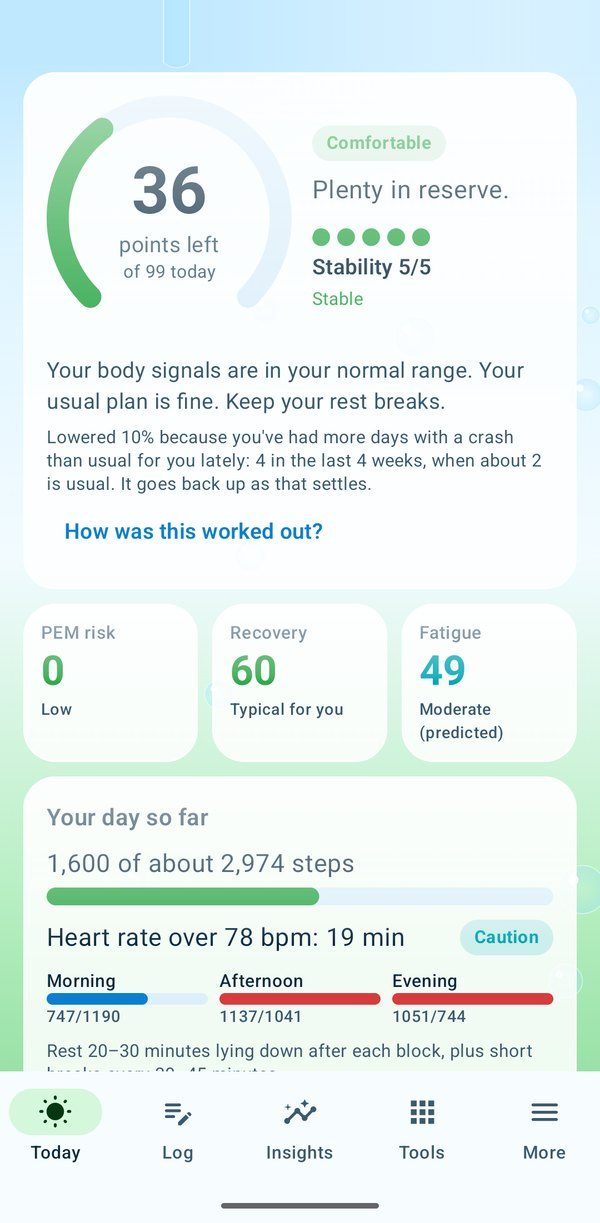
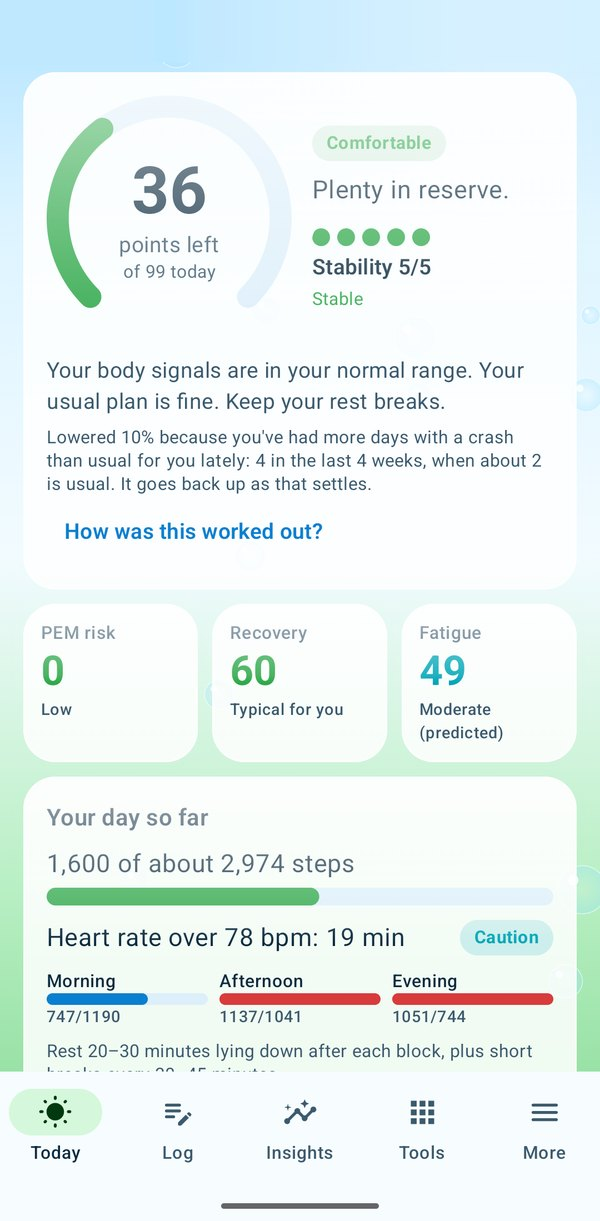
Add the Y2K sparkle and Frutiger Aero screenshots

diff --git a/themes.html b/themes.html
@@ -41,7 +41,7 @@
   <link rel="preconnect" href="https://fonts.googleapis.com">
   <link rel="preconnect" href="https://fonts.gstatic.com" crossorigin>
   <link href="https://fonts.googleapis.com/css2?family=Atkinson+Hyperlegible:ital,wght@0,400;0,700;1,400&family=Silkscreen&family=Sniglet:wght@800&display=swap" rel="stylesheet">
-  <link rel="stylesheet" href="styles.css?v=a73459ff">
+  <link rel="stylesheet" href="styles.css?v=cc64a8cb">
   <link rel="icon" href="favicon.svg" type="image/svg+xml">
   <link rel="apple-touch-icon" href="apple-touch-icon.png">
   <script type="application/ld+json">
@@ -193,7 +193,6 @@
     <p class="eyebrow">Themes</p>
     <h1>Calm on bad days, sparkly on good ones</h1>
     <p class="lede">Light sensitivity and brain fog both change what you can look at. So Gentle has a very dim mode for the worst days, plain light and dark themes for most days, and a few looks that are only there because they're fun.</p>
-    <p>This website has the same themes, and the same low-stimulus switch. You'll find both under the Theme button at the top of the page.</p>
   </div>
 </header>
 
@@ -201,27 +200,27 @@
   <div class="container">
     <div class="theme-gallery">
       <figure>
-        <div class="phone" data-ink="dark"><div class="phone-screen"><img src="img/app/today-light.jpg?v=35d0aca0" width="600" height="1223" loading="lazy" alt="Gentle's Today screen in the Light theme: cream background, dark green text"><div class="phone-status" aria-hidden="true"><span>2:50</span><span class="phone-icons"><svg viewBox="0 0 12 12"><path d="M12 0V12H0Z"/></svg><svg viewBox="0 0 16 12"><path d="M8 11.6 0.4 3.7a10.8 10.8 0 0 1 15.2 0Z"/></svg><svg viewBox="0 0 8 13"><rect x="2.5" width="3" height="2" rx=".6"/><rect y="1.4" width="8" height="11.6" rx="1.7"/></svg></span></div><span class="phone-camera" aria-hidden="true"></span></div></div>
+        <div class="phone" data-ink="dark"><div class="phone-screen"><img src="img/app/today-light.jpg?v=cd638573" width="600" height="1221" loading="lazy" alt="Gentle's Today screen in the Light theme: cream background, dark green text"><div class="phone-status" aria-hidden="true"><span>2:50</span><span class="phone-icons"><svg viewBox="0 0 12 12"><path d="M12 0V12H0Z"/></svg><svg viewBox="0 0 16 12"><path d="M8 11.6 0.4 3.7a10.8 10.8 0 0 1 15.2 0Z"/></svg><svg viewBox="0 0 8 13"><rect x="2.5" width="3" height="2" rx=".6"/><rect y="1.4" width="8" height="11.6" rx="1.7"/></svg></span></div><span class="phone-camera" aria-hidden="true"></span></div></div>
         <figcaption>Light<span>Cream and dark green, and easy to read.</span></figcaption>
       </figure>
       <figure>
-        <div class="phone" data-ink="light"><div class="phone-screen"><img src="img/app/today-dark.jpg?v=a417bcd6" width="600" height="1223" loading="lazy" alt="Gentle's Today screen in the Dark theme: near-black background, soft green text"><div class="phone-status" aria-hidden="true"><span>2:50</span><span class="phone-icons"><svg viewBox="0 0 12 12"><path d="M12 0V12H0Z"/></svg><svg viewBox="0 0 16 12"><path d="M8 11.6 0.4 3.7a10.8 10.8 0 0 1 15.2 0Z"/></svg><svg viewBox="0 0 8 13"><rect x="2.5" width="3" height="2" rx=".6"/><rect y="1.4" width="8" height="11.6" rx="1.7"/></svg></span></div><span class="phone-camera" aria-hidden="true"></span></div></div>
+        <div class="phone" data-ink="light"><div class="phone-screen"><img src="img/app/today-dark.jpg?v=ce06c25e" width="600" height="1221" loading="lazy" alt="Gentle's Today screen in the Dark theme: near-black background, soft green text"><div class="phone-status" aria-hidden="true"><span>2:50</span><span class="phone-icons"><svg viewBox="0 0 12 12"><path d="M12 0V12H0Z"/></svg><svg viewBox="0 0 16 12"><path d="M8 11.6 0.4 3.7a10.8 10.8 0 0 1 15.2 0Z"/></svg><svg viewBox="0 0 8 13"><rect x="2.5" width="3" height="2" rx=".6"/><rect y="1.4" width="8" height="11.6" rx="1.7"/></svg></span></div><span class="phone-camera" aria-hidden="true"></span></div></div>
         <figcaption>Dark<span>For evenings, or if light hurts.</span></figcaption>
       </figure>
       <figure>
-        <div class="phone" data-ink="dark"><div class="phone-screen"><img src="img/app/today-pink.jpg?v=a003fc54" width="600" height="1223" loading="lazy" alt="Gentle's Today screen in the Pink theme: pink background, a handwritten greeting and gradient buttons"><div class="phone-status" aria-hidden="true"><span>2:50</span><span class="phone-icons"><svg viewBox="0 0 12 12"><path d="M12 0V12H0Z"/></svg><svg viewBox="0 0 16 12"><path d="M8 11.6 0.4 3.7a10.8 10.8 0 0 1 15.2 0Z"/></svg><svg viewBox="0 0 8 13"><rect x="2.5" width="3" height="2" rx=".6"/><rect y="1.4" width="8" height="11.6" rx="1.7"/></svg></span></div><span class="phone-camera" aria-hidden="true"></span></div></div>
+        <div class="phone" data-ink="dark"><div class="phone-screen"><img src="img/app/today-pink.jpg?v=bd4b0910" width="600" height="1221" loading="lazy" alt="Gentle's Today screen in the Pink theme: pink background, a handwritten greeting and gradient buttons"><div class="phone-status" aria-hidden="true"><span>2:50</span><span class="phone-icons"><svg viewBox="0 0 12 12"><path d="M12 0V12H0Z"/></svg><svg viewBox="0 0 16 12"><path d="M8 11.6 0.4 3.7a10.8 10.8 0 0 1 15.2 0Z"/></svg><svg viewBox="0 0 8 13"><rect x="2.5" width="3" height="2" rx=".6"/><rect y="1.4" width="8" height="11.6" rx="1.7"/></svg></span></div><span class="phone-camera" aria-hidden="true"></span></div></div>
         <figcaption>Pink<span>Soft pinks and a handwritten greeting.</span></figcaption>
       </figure>
       <figure>
-        <div class="phone" data-ink="dark"><div class="phone-screen"><img src="img/app/today-bubbles.jpg?v=16cfeb57" width="600" height="1223" loading="lazy" alt="Gentle's Today screen in the Bubbles theme: pastel bubbles drifting behind the cards"><div class="phone-status" aria-hidden="true"><span>2:50</span><span class="phone-icons"><svg viewBox="0 0 12 12"><path d="M12 0V12H0Z"/></svg><svg viewBox="0 0 16 12"><path d="M8 11.6 0.4 3.7a10.8 10.8 0 0 1 15.2 0Z"/></svg><svg viewBox="0 0 8 13"><rect x="2.5" width="3" height="2" rx=".6"/><rect y="1.4" width="8" height="11.6" rx="1.7"/></svg></span></div><span class="phone-camera" aria-hidden="true"></span></div></div>
+        <div class="phone" data-ink="dark"><div class="phone-screen"><img src="img/app/today-bubbles.jpg?v=465e9296" width="600" height="1221" loading="lazy" alt="Gentle's Today screen in the Bubbles theme: pastel bubbles drifting behind the cards"><div class="phone-status" aria-hidden="true"><span>2:50</span><span class="phone-icons"><svg viewBox="0 0 12 12"><path d="M12 0V12H0Z"/></svg><svg viewBox="0 0 16 12"><path d="M8 11.6 0.4 3.7a10.8 10.8 0 0 1 15.2 0Z"/></svg><svg viewBox="0 0 8 13"><rect x="2.5" width="3" height="2" rx=".6"/><rect y="1.4" width="8" height="11.6" rx="1.7"/></svg></span></div><span class="phone-camera" aria-hidden="true"></span></div></div>
         <figcaption>Bubbles<span>Pastel bubbles that drift slowly.</span></figcaption>
       </figure>
       <figure>
-        <div class="shot-slot" data-slot="today-y2k">Y2K sparkle screenshot to come</div>
-        <figcaption>Y2K sparkle<span>Hot pink, pixel fonts, chunky outlines and glitter, in three versions.</span></figcaption>
+        <div class="phone" data-ink="dark"><div class="phone-screen"><img src="img/app/today-y2k.jpg?v=8d5a18b8" width="600" height="1221" loading="lazy" alt="Gentle's Today screen in Y2K sparkle: pastel rainbow background, cards drawn like little windows with pixel-font titles, glitter and stickers"><div class="phone-status" aria-hidden="true"><span>2:50</span><span class="phone-icons"><svg viewBox="0 0 12 12"><path d="M12 0V12H0Z"/></svg><svg viewBox="0 0 16 12"><path d="M8 11.6 0.4 3.7a10.8 10.8 0 0 1 15.2 0Z"/></svg><svg viewBox="0 0 8 13"><rect x="2.5" width="3" height="2" rx=".6"/><rect y="1.4" width="8" height="11.6" rx="1.7"/></svg></span></div><span class="phone-camera" aria-hidden="true"></span></div></div>
+        <figcaption>Y2K sparkle<span>Pastel rainbow, cards like little windows, glitter and stickers, in three versions.</span></figcaption>
       </figure>
       <figure>
-        <div class="shot-slot" data-slot="today-aero">Frutiger Aero screenshot to come</div>
+        <div class="phone" data-ink="dark"><div class="phone-screen"><img src="img/app/today-aero.jpg?v=5ef8c370" width="600" height="1221" loading="lazy" alt="Gentle's Today screen in Frutiger Aero: sky-blue background with clouds and bubbles, glassy cards and glossy buttons"><div class="phone-status" aria-hidden="true"><span>2:50</span><span class="phone-icons"><svg viewBox="0 0 12 12"><path d="M12 0V12H0Z"/></svg><svg viewBox="0 0 16 12"><path d="M8 11.6 0.4 3.7a10.8 10.8 0 0 1 15.2 0Z"/></svg><svg viewBox="0 0 8 13"><rect x="2.5" width="3" height="2" rx=".6"/><rect y="1.4" width="8" height="11.6" rx="1.7"/></svg></span></div><span class="phone-camera" aria-hidden="true"></span></div></div>
         <figcaption>Frutiger Aero<span>Sky blue, glossy buttons and glass panels, in three versions.</span></figcaption>
       </figure>
     </div>
@@ -307,6 +306,6 @@
   </div>
 </footer>
 
-<script src="site.js?v=a73459ff" defer></script>
+<script src="site.js?v=cc64a8cb" defer></script>
 </body>
 </html>

diff --git a/index.html b/index.html
@@ -41,7 +41,7 @@
   <link rel="preconnect" href="https://fonts.googleapis.com">
   <link rel="preconnect" href="https://fonts.gstatic.com" crossorigin>
   <link href="https://fonts.googleapis.com/css2?family=Atkinson+Hyperlegible:ital,wght@0,400;0,700;1,400&family=Silkscreen&family=Sniglet:wght@800&display=swap" rel="stylesheet">
-  <link rel="stylesheet" href="styles.css?v=a73459ff">
+  <link rel="stylesheet" href="styles.css?v=cc64a8cb">
   <link rel="icon" href="favicon.svg" type="image/svg+xml">
   <link rel="apple-touch-icon" href="apple-touch-icon.png">
   <script type="application/ld+json">
@@ -251,8 +251,8 @@
       <p class="hero-note">Free, with no subscription. Needs Android 8.0 or later. Works with Pixel Watch, Fitbit, Samsung, Garmin and others through Health Connect, or with no watch at all.</p>
     </div>
     <figure>
-      <div class="phone" data-ink="dark"><div class="phone-screen"><img data-shot="today" src="img/app/today-light.jpg?v=0f9af9ab" data-v="0f9af9ab" width="600" height="1223" alt="Gentle's Today screen: 36 points left of 99 today, stability 5 out of 5, and the day so far in steps and heart rate"><div class="phone-status" aria-hidden="true"><span>2:50</span><span class="phone-icons"><svg viewBox="0 0 12 12"><path d="M12 0V12H0Z"/></svg><svg viewBox="0 0 16 12"><path d="M8 11.6 0.4 3.7a10.8 10.8 0 0 1 15.2 0Z"/></svg><svg viewBox="0 0 8 13"><rect x="2.5" width="3" height="2" rx=".6"/><rect y="1.4" width="8" height="11.6" rx="1.7"/></svg></span></div><span class="phone-camera" aria-hidden="true"></span></div></div>
-      <figcaption class="phone-caption" data-shot-caption>Gentle's Today screen in its Light theme, with sample data.</figcaption>
+      <div class="phone" data-ink="dark"><div class="phone-screen"><img data-shot="today" src="img/app/today-aero.jpg?v=d798009a" data-v="d798009a" width="600" height="1221" alt="Gentle's Today screen: 36 points left of 99 today, stability 5 out of 5, and the day so far in steps and heart rate"><div class="phone-status" aria-hidden="true"><span>2:50</span><span class="phone-icons"><svg viewBox="0 0 12 12"><path d="M12 0V12H0Z"/></svg><svg viewBox="0 0 16 12"><path d="M8 11.6 0.4 3.7a10.8 10.8 0 0 1 15.2 0Z"/></svg><svg viewBox="0 0 8 13"><rect x="2.5" width="3" height="2" rx=".6"/><rect y="1.4" width="8" height="11.6" rx="1.7"/></svg></span></div><span class="phone-camera" aria-hidden="true"></span></div></div>
+      <figcaption class="phone-caption" data-shot-caption>Gentle's Today screen in its Frutiger Aero theme, with sample data.</figcaption>
     </figure>
   </div>
 </header>
@@ -451,6 +451,6 @@
   </div>
 </footer>
 
-<script src="site.js?v=a73459ff" defer></script>
+<script src="site.js?v=cc64a8cb" defer></script>
 </body>
 </html>

diff --git a/me-cfs-long-covid.html b/me-cfs-long-covid.html
@@ -41,7 +41,7 @@
   <link rel="preconnect" href="https://fonts.googleapis.com">
   <link rel="preconnect" href="https://fonts.gstatic.com" crossorigin>
   <link href="https://fonts.googleapis.com/css2?family=Atkinson+Hyperlegible:ital,wght@0,400;0,700;1,400&family=Silkscreen&family=Sniglet:wght@800&display=swap" rel="stylesheet">
-  <link rel="stylesheet" href="styles.css?v=a73459ff">
+  <link rel="stylesheet" href="styles.css?v=cc64a8cb">
   <link rel="icon" href="favicon.svg" type="image/svg+xml">
   <link rel="apple-touch-icon" href="apple-touch-icon.png">
   <script type="application/ld+json">
@@ -223,7 +223,7 @@
       <p>Once you've logged three crashes, it looks for what usually came before them and tells you when the same signs show up together. And on a day with a crash or PEM, the allowance goes down by 20% for the whole day, to protect your recovery.</p>
     </div>
     <figure>
-      <div class="phone phone-sm" data-ink="light"><div class="phone-screen"><img src="img/app/today-dark.jpg?v=a417bcd6" width="600" height="1223" loading="lazy" alt="Gentle's Today screen in the Dark theme: points left, stability, PEM risk, recovery and predicted fatigue"><div class="phone-status" aria-hidden="true"><span>2:50</span><span class="phone-icons"><svg viewBox="0 0 12 12"><path d="M12 0V12H0Z"/></svg><svg viewBox="0 0 16 12"><path d="M8 11.6 0.4 3.7a10.8 10.8 0 0 1 15.2 0Z"/></svg><svg viewBox="0 0 8 13"><rect x="2.5" width="3" height="2" rx=".6"/><rect y="1.4" width="8" height="11.6" rx="1.7"/></svg></span></div><span class="phone-camera" aria-hidden="true"></span></div></div>
+      <div class="phone phone-sm" data-ink="light"><div class="phone-screen"><img src="img/app/today-dark.jpg?v=ce06c25e" width="600" height="1221" loading="lazy" alt="Gentle's Today screen in the Dark theme: points left, stability, PEM risk, recovery and predicted fatigue"><div class="phone-status" aria-hidden="true"><span>2:50</span><span class="phone-icons"><svg viewBox="0 0 12 12"><path d="M12 0V12H0Z"/></svg><svg viewBox="0 0 16 12"><path d="M8 11.6 0.4 3.7a10.8 10.8 0 0 1 15.2 0Z"/></svg><svg viewBox="0 0 8 13"><rect x="2.5" width="3" height="2" rx=".6"/><rect y="1.4" width="8" height="11.6" rx="1.7"/></svg></span></div><span class="phone-camera" aria-hidden="true"></span></div></div>
       <figcaption class="phone-caption">PEM risk, recovery and tomorrow's predicted fatigue sit under the points.</figcaption>
     </figure>
   </div>
@@ -311,6 +311,6 @@
   </div>
 </footer>
 
-<script src="site.js?v=a73459ff" defer></script>
+<script src="site.js?v=cc64a8cb" defer></script>
 </body>
 </html>

diff --git a/energy-pacing-app.html b/energy-pacing-app.html
@@ -41,7 +41,7 @@
   <link rel="preconnect" href="https://fonts.googleapis.com">
   <link rel="preconnect" href="https://fonts.gstatic.com" crossorigin>
   <link href="https://fonts.googleapis.com/css2?family=Atkinson+Hyperlegible:ital,wght@0,400;0,700;1,400&family=Silkscreen&family=Sniglet:wght@800&display=swap" rel="stylesheet">
-  <link rel="stylesheet" href="styles.css?v=a73459ff">
+  <link rel="stylesheet" href="styles.css?v=cc64a8cb">
   <link rel="icon" href="favicon.svg" type="image/svg+xml">
   <link rel="apple-touch-icon" href="apple-touch-icon.png">
   <script type="application/ld+json">
@@ -229,9 +229,9 @@
       <table>
         <thead><tr><th>Part</th><th>Worth</th><th>Measured by</th></tr></thead>
         <tbody>
-          <tr><td>Moving about</td><td>50 points</td><td>Steps, compared with your ordinary day's steps. If you get around seated, active minutes instead.</td></tr>
-          <tr><td>Heart-rate strain</td><td>25 points</td><td>Minutes with your heart rate over your <a href="heart-rate-pacing.html">pace line</a>, compared with your usual.</td></tr>
-          <tr><td>Thinking, social and sensory</td><td>25 points</td><td>The effort you rate in the evening check-in, and work shifts. Until you've rated it, an ordinary amount for the time you've been up.</td></tr>
+          <tr><td>Moving about</td><td>50&nbsp;points</td><td>Steps, compared with your ordinary day's steps. If you get around seated, active minutes instead.</td></tr>
+          <tr><td>Heart-rate strain</td><td>25&nbsp;points</td><td>Minutes with your heart rate over your <a href="heart-rate-pacing.html">pace line</a>, compared with your usual.</td></tr>
+          <tr><td>Thinking, social and sensory</td><td>25&nbsp;points</td><td>The effort you rate in the evening check-in, and work shifts. Until you've rated it, an ordinary amount for the time you've been up.</td></tr>
         </tbody>
       </table>
     </div>
@@ -376,6 +376,6 @@
   </div>
 </footer>
 
-<script src="site.js?v=a73459ff" defer></script>
+<script src="site.js?v=cc64a8cb" defer></script>
 </body>
 </html>

diff --git a/styles.css b/styles.css
@@ -405,7 +405,7 @@ p, li { text-wrap: pretty; }
 .phone-sm .phone-screen { border-radius: 26px; }
 
 .shot-slot {
-  margin: 0 auto; width: min(220px, 70vw); aspect-ratio: 600 / 1223; border-radius: 40px; border: 3px dashed var(--line);
+  margin: 0 auto; width: min(220px, 70vw); aspect-ratio: 600 / 1221; border-radius: 40px; border: 3px dashed var(--line);
   display: grid; place-items: center; text-align: center; padding: 20px; color: var(--muted); font-size: 0.95rem; background: var(--surface);
 }
 
@@ -474,9 +474,10 @@ thead th { background: var(--container); color: var(--on-container); font-weight
 .crosses li::before { content: "\2715"; position: absolute; left: 2px; color: var(--bad); font-weight: 700; }
 
 /* Theme gallery */
-.theme-gallery { display: grid; gap: 22px; grid-template-columns: repeat(auto-fit, minmax(200px, 1fr)); }
+.theme-gallery { display: grid; gap: 28px 18px; grid-template-columns: repeat(2, 1fr); }
+@media (min-width: 860px) { .theme-gallery { grid-template-columns: repeat(3, 1fr); gap: 40px 28px; } }
 .theme-gallery figure { margin: 0; }
-.theme-gallery .phone { width: min(210px, 68vw); padding: 9px; border-radius: 32px; }
+.theme-gallery .phone { width: min(220px, 100%); padding: 9px; border-radius: 32px; }
 .theme-gallery .phone-screen { border-radius: 23px; }
 .theme-gallery figcaption { text-align: center; margin-top: 10px; font-weight: 700; }
 .theme-gallery figcaption span { display: block; font-weight: 400; font-size: 0.9rem; color: var(--muted); }

diff --git a/site.js b/site.js
@@ -2,13 +2,13 @@
 (function () {
   var root = document.documentElement;
 
-  // The Today screen in each theme. Y2K sparkle and Frutiger Aero use the nearest theme until their own screenshots are added.
+  // The Today screen in each theme.
   var shots = {
     calm: ['img/app/today-light.jpg', 'Light', 'dark'],
     dark: ['img/app/today-dark.jpg', 'Dark', 'light'],
     pink: ['img/app/today-pink.jpg', 'Pink', 'dark'],
-    y2k: ['img/app/today-pink.jpg', 'Pink', 'dark'],
-    aero: ['img/app/today-light.jpg', 'Light', 'dark']
+    y2k: ['img/app/today-y2k.jpg', 'Y2K sparkle', 'dark'],
+    aero: ['img/app/today-aero.jpg', 'Frutiger Aero', 'dark']
   };
   var themeColours = { calm: '#F4F1EA', dark: '#121614', pink: '#FFE6F3', y2k: '#FFE6F2', aero: '#8FD3FF' };
   var lowColours = { light: '#E7E5E0', dark: '#0B0C0C' };

diff --git a/404.html b/404.html
@@ -42,7 +42,7 @@
   <link rel="preconnect" href="https://fonts.googleapis.com">
   <link rel="preconnect" href="https://fonts.gstatic.com" crossorigin>
   <link href="https://fonts.googleapis.com/css2?family=Atkinson+Hyperlegible:ital,wght@0,400;0,700;1,400&family=Silkscreen&family=Sniglet:wght@800&display=swap" rel="stylesheet">
-  <link rel="stylesheet" href="styles.css?v=a73459ff">
+  <link rel="stylesheet" href="styles.css?v=cc64a8cb">
   <link rel="icon" href="favicon.svg" type="image/svg+xml">
   <link rel="apple-touch-icon" href="apple-touch-icon.png">
   <script type="application/ld+json">
@@ -208,6 +208,6 @@
   </div>
 </footer>
 
-<script src="site.js?v=a73459ff" defer></script>
+<script src="site.js?v=cc64a8cb" defer></script>
 </body>
 </html>

diff --git a/bowel-movement-tracker.html b/bowel-movement-tracker.html
@@ -41,7 +41,7 @@
   <link rel="preconnect" href="https://fonts.googleapis.com">
   <link rel="preconnect" href="https://fonts.gstatic.com" crossorigin>
   <link href="https://fonts.googleapis.com/css2?family=Atkinson+Hyperlegible:ital,wght@0,400;0,700;1,400&family=Silkscreen&family=Sniglet:wght@800&display=swap" rel="stylesheet">
-  <link rel="stylesheet" href="styles.css?v=a73459ff">
+  <link rel="stylesheet" href="styles.css?v=cc64a8cb">
   <link rel="icon" href="favicon.svg" type="image/svg+xml">
   <link rel="apple-touch-icon" href="apple-touch-icon.png">
   <script type="application/ld+json">
@@ -327,6 +327,6 @@
   </div>
 </footer>
 
-<script src="site.js?v=a73459ff" defer></script>
+<script src="site.js?v=cc64a8cb" defer></script>
 </body>
 </html>

diff --git a/crash-pem-tracker.html b/crash-pem-tracker.html
@@ -41,7 +41,7 @@
   <link rel="preconnect" href="https://fonts.googleapis.com">
   <link rel="preconnect" href="https://fonts.gstatic.com" crossorigin>
   <link href="https://fonts.googleapis.com/css2?family=Atkinson+Hyperlegible:ital,wght@0,400;0,700;1,400&family=Silkscreen&family=Sniglet:wght@800&display=swap" rel="stylesheet">
-  <link rel="stylesheet" href="styles.css?v=a73459ff">
+  <link rel="stylesheet" href="styles.css?v=cc64a8cb">
   <link rel="icon" href="favicon.svg" type="image/svg+xml">
   <link rel="apple-touch-icon" href="apple-touch-icon.png">
   <script type="application/ld+json">
@@ -315,6 +315,6 @@
   </div>
 </footer>
 
-<script src="site.js?v=a73459ff" defer></script>
+<script src="site.js?v=cc64a8cb" defer></script>
 </body>
 </html>

diff --git a/crohns-ibd-fatigue.html b/crohns-ibd-fatigue.html
@@ -41,7 +41,7 @@
   <link rel="preconnect" href="https://fonts.googleapis.com">
   <link rel="preconnect" href="https://fonts.gstatic.com" crossorigin>
   <link href="https://fonts.googleapis.com/css2?family=Atkinson+Hyperlegible:ital,wght@0,400;0,700;1,400&family=Silkscreen&family=Sniglet:wght@800&display=swap" rel="stylesheet">
-  <link rel="stylesheet" href="styles.css?v=a73459ff">
+  <link rel="stylesheet" href="styles.css?v=cc64a8cb">
   <link rel="icon" href="favicon.svg" type="image/svg+xml">
   <link rel="apple-touch-icon" href="apple-touch-icon.png">
   <script type="application/ld+json">
@@ -315,6 +315,6 @@
   </div>
 </footer>
 
-<script src="site.js?v=a73459ff" defer></script>
+<script src="site.js?v=cc64a8cb" defer></script>
 </body>
 </html>

diff --git a/free-no-subscription.html b/free-no-subscription.html
@@ -41,7 +41,7 @@
   <link rel="preconnect" href="https://fonts.googleapis.com">
   <link rel="preconnect" href="https://fonts.gstatic.com" crossorigin>
   <link href="https://fonts.googleapis.com/css2?family=Atkinson+Hyperlegible:ital,wght@0,400;0,700;1,400&family=Silkscreen&family=Sniglet:wght@800&display=swap" rel="stylesheet">
-  <link rel="stylesheet" href="styles.css?v=a73459ff">
+  <link rel="stylesheet" href="styles.css?v=cc64a8cb">
   <link rel="icon" href="favicon.svg" type="image/svg+xml">
   <link rel="apple-touch-icon" href="apple-touch-icon.png">
   <script type="application/ld+json">
@@ -377,6 +377,6 @@
   </div>
 </footer>
 
-<script src="site.js?v=a73459ff" defer></script>
+<script src="site.js?v=cc64a8cb" defer></script>
 </body>
 </html>

diff --git a/heart-rate-pacing.html b/heart-rate-pacing.html
@@ -41,7 +41,7 @@
   <link rel="preconnect" href="https://fonts.googleapis.com">
   <link rel="preconnect" href="https://fonts.gstatic.com" crossorigin>
   <link href="https://fonts.googleapis.com/css2?family=Atkinson+Hyperlegible:ital,wght@0,400;0,700;1,400&family=Silkscreen&family=Sniglet:wght@800&display=swap" rel="stylesheet">
-  <link rel="stylesheet" href="styles.css?v=a73459ff">
+  <link rel="stylesheet" href="styles.css?v=cc64a8cb">
   <link rel="icon" href="favicon.svg" type="image/svg+xml">
   <link rel="apple-touch-icon" href="apple-touch-icon.png">
   <script type="application/ld+json">
@@ -340,6 +340,6 @@
   </div>
 </footer>
 
-<script src="site.js?v=a73459ff" defer></script>
+<script src="site.js?v=cc64a8cb" defer></script>
 </body>
 </html>
